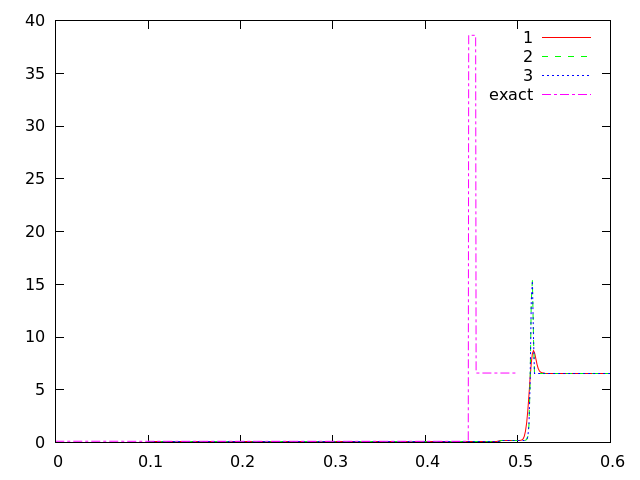
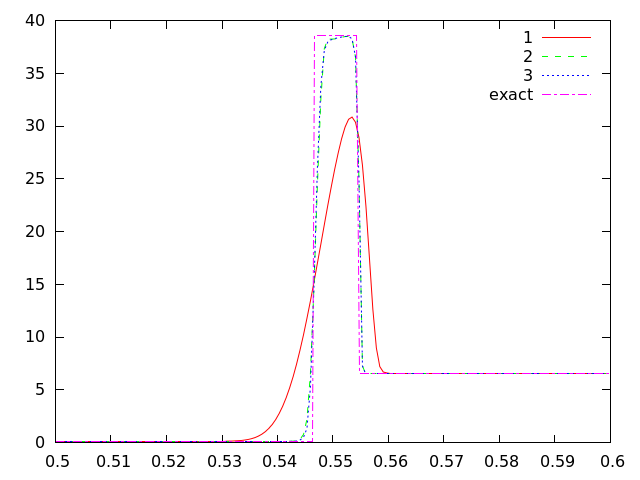
zoomed density for test 9

diff --git a/Documents/Euler/Benchmarks1D/draft.tex b/Documents/Euler/Benchmarks1D/draft.tex
@@ -35,7 +35,7 @@
 \title{Benchmarks of the Non-Relativistic Hydrodynamics Algorithms in \thornado}
 \author{Juliana Pulsinelli\altaffilmark{1} and Eirik Endeve\altaffilmark{2}}
 
-\altaffiltext{1}{Insert Juliana's affiliation and email}
+\altaffiltext{1}{Bearden High School, Knoxville, TN 37919-5449, USA}
 \altaffiltext{2}{Computational and Applied Mathematics Group, Oak Ridge National Laboratory, Oak Ridge, TN 37831-6354, USA; endevee@ornl.gov}
 
 \begin{abstract}
@@ -370,38 +370,19 @@ This test features an unusual situation--method 1 calculates the velocity exactl
 \subsection{Test 9}
 When finding density, method 1 falls considerably short of the maximum. On the pressure graph, method 3 features both a jump above and a dip below the graph between positions 0.1 and 0.2. Velocity shows a similar (but considerably larger) dip, followed by jump, in the vertical section of the graph between 0.1 and 0.2. Method 1 also overestimates the maximum velocity and is above both exact and method 3 in the middle horizontal section. 
 
-%\begin{figure}[h]
- % \begin{center}
-	%\begin{tabular}{cc}
-     % \includegraphics[width=.4\textwidth]{den_T9.png} &
-	  %\includegraphics[width=.4\textwidth]{denT9zoom.png} \\
-	  %\includegraphics[width=.4\textwidth]{prs_T9.png} &	
-      %\includegraphics[width=.4\textwidth]{vel_T9.png}\\
-	%\end{tabular}	
-  %\end{center}
- % \caption{}
-%\end{figure}
-
 \begin{figure}[h]
   \begin{center}
-     \includegraphics[width=.78\textwidth]{den_T9.png}	
+	\begin{tabular}{cc}
+      \includegraphics[width=.4\textwidth]{den_T9.png} &
+	  \includegraphics[width=.4\textwidth]{denT9zoom.png} \\
+	  \includegraphics[width=.4\textwidth]{prs_T9.png} &	
+      \includegraphics[width=.4\textwidth]{vel_T9.png}\\
+	\end{tabular}	
   \end{center}
-  \caption{density}
+  \caption{}
 \end{figure}
 
-\begin{figure}
-  \begin{center}
-     \includegraphics[width=.78\textwidth]{prs_T9.png}	
-  \end{center}
-  \caption{pressure}
-\end{figure}
 
-\begin{figure}
-  \begin{center}
-     \includegraphics[width=.78\textwidth]{vel_T9.png}	
-  \end{center}
-  \caption{velocity}
-\end{figure}
 \clearpage
 
 \subsection{Test 10}
